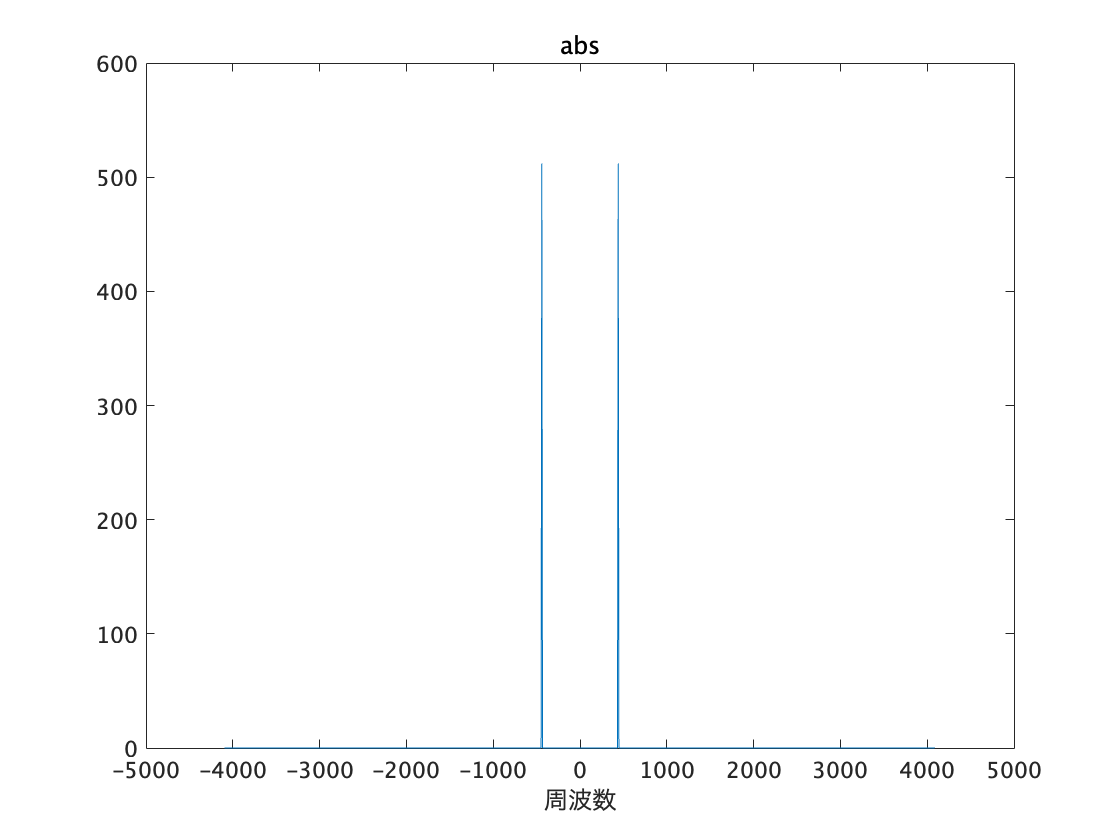
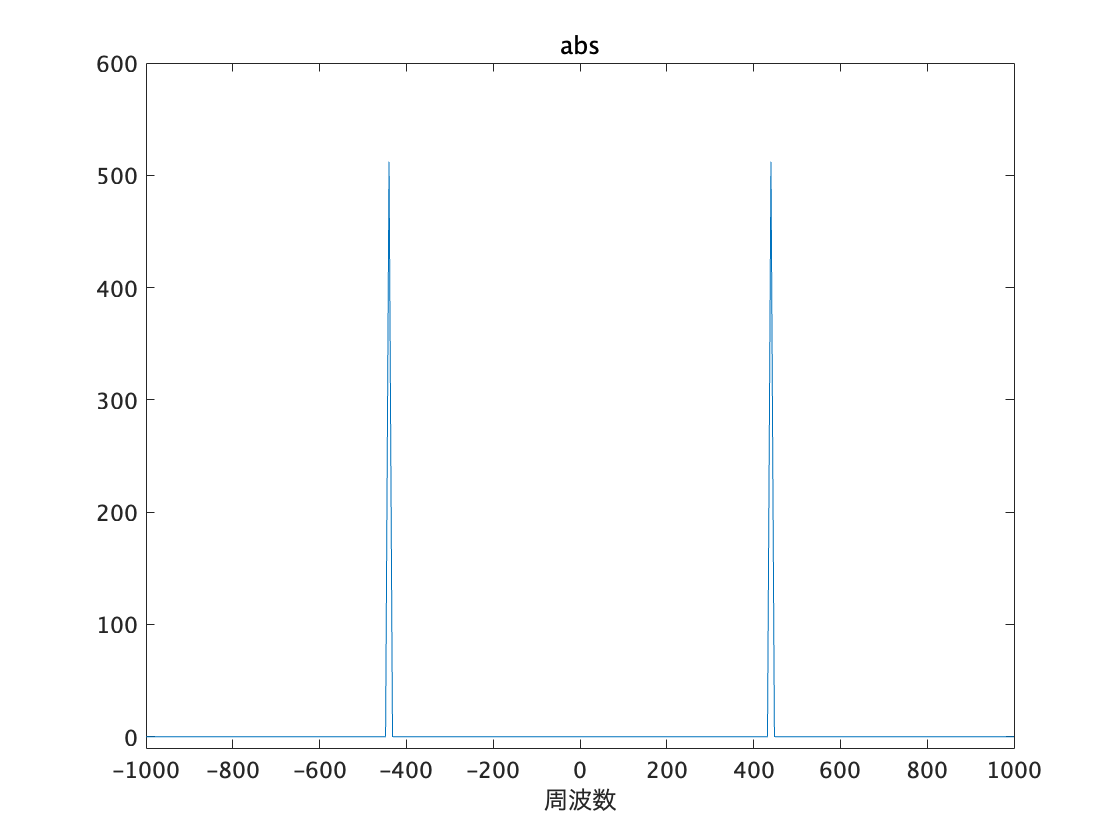
Update

diff --git a/03_SpeechSynthesis/Presentation/Presentation.tex b/03_SpeechSynthesis/Presentation/Presentation.tex
@@ -13,6 +13,7 @@
 \renewcommand\familydefault{\rmdefault}
 \renewcommand{\figurename}{図\thefigure}
 \renewcommand{\thefootnote}{\fnsymbol{footnote}}
+\renewcommand{\thempfootnote}{\fnsymbol{mpfootnote}}
 \setbeamertemplate{sections/subsections in toc}[sections numbered]
 \setbeamertemplate{enumerate item}[default]
 \setbeamertemplate{itemize item}[triangle]
@@ -24,7 +25,7 @@
         %標準の書体
     basicstyle = \ttfamily\small,
         %コメントの書体
-    commentstyle = {\ttfamily \color[cmyk]{1,0.4,1,0}},
+    commentstyle = {\scriptsize\ttfamily \color[cmyk]{1,0.4,1,0}},
         %関数名等の色の設定
     classoffset = 0,
         %キーワード(int, ifなど)の書体
@@ -46,7 +47,7 @@
     tabsize = 4,
         %キャプションの場所(tbならば上下両方に記載)
     captionpos = t,
-    xleftmargin=1.5em
+    xleftmargin=1em
 }
 \makeatletter
 \title{3. 音声合成}
@@ -134,7 +135,7 @@ phi2 = pi / 2;   % 初期位相 pi/4
 phi3 = rand;     % 初期位相 ランダム
 % --- ノコギリ波生成 ---
 for k=1:50 % とりあえず50にでも設定しておく
-    y1 = ?? + (-1)^(k-1) * 1/3 * 2/k * sin(???);
+    y1 = ?? + (-1)^(k-1) * 1/3 * 2/k * sin(??);
     y2 = ...;
     y3 = ...;
 end
@@ -157,6 +158,27 @@ end
         \centering
         \includegraphics[keepaspectratio,width=0.89\textwidth]{no1_2_ans.png}
     \end{figure}
+\end{frame}
+\section{モノラルとステレオ}
+\begin{frame}[t,containsverbatim]{\showsec モノラルとステレオ（\texttt{audioread}）}
+    \texttt{audioread}関数は，\texttt{filename.wav}のサンプルデータ\texttt{y}と，サンプリング周波数\texttt{Fs}を保存する関数である．
+    \begin{lstlisting}[language={Matlab},xleftmargin={0mm},frame={lines}]
+[y, Fs] = audioread('filename.wav');
+\end{lstlisting}
+    \begin{minipage}[t]{.49\textwidth}
+        \begin{itemize}
+            \item モノラルオーディオの場合\\
+                  \texttt{y}は\texttt{N}行\texttt{1}列のデータ列
+        \end{itemize}
+    \end{minipage}
+    \begin{minipage}[t]{.49\textwidth}
+        \begin{itemize}
+            \item ステレオオーディオの場合\\
+                  \texttt{y}は\texttt{N}行\texttt{2}列のデータ列
+        \end{itemize}
+    \end{minipage}
+    \vspace{2em}\\
+    ステレオからモノラルに変換するには，\texttt{y}の2列目を削除すれば良い．
 \end{frame}
 \section{課題2}
 \subsection{結果}
@@ -193,7 +215,8 @@ z = ??; % yの各要素に対して正ならば負，負ならば正にする
     \begin{alertblock}{}
         ステレオからモノラルへの変換をすること！
         \begin{itemize}
-            \item さもなくば，左右それぞれの信号が処理されグラフが見難くくなる．
+            \item 左右それぞれの信号が処理されグラフが見難くくなったり
+            \item そもそもデータ数が想定していたものと異なるので\texttt{plot}されなかったり
         \end{itemize}
     \end{alertblock}
 \end{frame}
@@ -210,8 +233,8 @@ z = ??; % yの各要素に対して正ならば負，負ならば正にする
         \includegraphics[keepaspectratio,height=0.5\textheight]{nokogiri.png}
     \end{figure}
 \end{frame}
-\subsection{フーリエ係数の分布}
-\begin{frame}[t]{\showsec 周波数解析（フーリエ係数の分布）}
+\subsection{振幅スペクトル}
+\begin{frame}[t]{\showsec 周波数解析（振幅スペクトル）}
     \renewcommand{\arraystretch}{1.5}
     \begin{columns}
         \begin{column}[T]{0.44\textwidth}
@@ -235,7 +258,7 @@ z = ??; % yの各要素に対して正ならば負，負ならば正にする
         \end{column}
         \begin{column}[T]{0.55\textwidth}
             \begin{figure}
-                \caption{フーリエ係数の分布}
+                \caption{振幅スペクトル}
                 \vspace{-1em}
                 \begin{tikzpicture}[remember picture]
                     \node[left] at(0,0){O};
@@ -258,13 +281,28 @@ z = ??; % yの各要素に対して正ならば負，負ならば正にする
         \end{column}
     \end{columns}
 \end{frame}
-\subsection{高速フーリエ変換（\texttt{fft}）}
-\begin{frame}[t,containsverbatim]{\showsec 周波数分析（高速フーリエ変換 \texttt{fft}）}
-    サンプリング周波数\texttt{Fs}の信号\texttt{y}に対して高速フーリエ変換\texttt{fft}を行うだけでは周波数解析ができない！
-    {\tiny \(\textrm{\texttt{-Fs/2}}\leq \textrm{周波数}\leq\textrm{\texttt{Fs/2}}\)を得られる．}
+\subsection{\texttt{fft}}
+\begin{frame}[t,containsverbatim]{\showsec 周波数解析（\texttt{fft}）}\label{frame:fft}
     \begin{lstlisting}[language={Matlab},frame={lines},numbers={none},xleftmargin={0mm}]
 fft_y = fft(y); % データ列yに対してfft を行う．
-    \end{lstlisting}
+                    \end{lstlisting}
+    \begin{block}{}
+        \texttt{fft}は，データ列\texttt{y}を高速フーリエ変換する関数であるが，入力データ列\texttt{y}に対して出力データ列\texttt{fft(y)}のデータ長は，入力データ列\texttt{y}と一致する．\\
+        ただし，indexとその内容についてはそれぞれ異なる．
+        \begin{itemize}
+            \item 入力データ列\texttt{y}のindexは時刻に対応．\footnotemark[1]
+            \item 出力データ列\texttt{fft(y)}のindexは周波数に対応．\footnotemark[2]
+        \end{itemize}
+        \footnotetext{\footnotemark[1]\footnotemark[2]indexが時刻や周波数というわけではない．}
+    \end{block}
+\end{frame}
+\subsection{\texttt{fftshift}}
+\begin{frame}[t,containsverbatim]{\showsec 周波数解析（\texttt{fftshift}）}
+    \begin{itemize}
+        \item サンプリング周波数\texttt{Fs}の信号\texttt{y}に対して高速フーリエ変換\texttt{fft}を行うだけでは周波数解析ができない！\\
+        \item \texttt{fft}では\(\textrm{\texttt{-Fs/2}}\leq \textrm{周波数成分}\leq\textrm{\texttt{Fs/2}}\)を得られる．
+        \item ただし，正のデータ・負のデータが逆転？した状態で出力される．
+    \end{itemize}
     \begin{figure}
         \centering
         \begin{minipage}[t]{0.49\textwidth}
@@ -310,28 +348,123 @@ fft_y = fft(y); % データ列yに対してfft を行う．
             \end{tikzpicture}
         \end{minipage}
     \end{figure}
-    \begin{enumerate}
-        \item 図\ref{fig:fft}から図\ref{fig:fftshift}の状態にするために\texttt{fftshift}関数を用いる．\\
+\end{frame}
+\begin{frame}[t,containsverbatim]{\showsec 周波数解析（\texttt{fftshift}）}
+    \begin{itemize}
+        \item 図\ref{fig:fft},\ref{fig:fft_f}から図\ref{fig:fftshift},\ref{fig:fft_shift_f}の状態にするために\texttt{fftshift}関数を用いる．\\
               \begin{lstlisting}[language={Matlab},frame={lines},numbers={none},xleftmargin={0mm}]
 fftshift_y = fftshift(fft_y);
             \end{lstlisting}
+    \end{itemize}
+    \begin{figure}
+        \centering
+        \begin{minipage}[t]{.49\textwidth}
+            \centering
+            \caption{\texttt{fft}}
+            \label{fig:fft_f}
+            \begin{tikzpicture}
+                \node(fig){\includegraphics[keepaspectratio,width=.9\textwidth]{fft_fft.png}};
+                \coordinate (figsouth) at (fig.south);
+                \coordinate (figscenter) at ($(figsouth)+(0.98mm,5.7mm)$);
+                \coordinate (figncenter) at ($(figscenter)+(0,3.24cm)$);
+                \coordinate (figsleft) at ($(figscenter)+(-2.05cm,0)$);
+                \coordinate (figsright) at ($(figscenter)+(2.05cm,0)$);
+                % \draw[fill=black](figncenter)circle[radius=0.01];
+                % \draw[fill=black](figscenter)circle[radius=0.01];
+                % \draw[fill=black](figsleft)circle[radius=0.01];
+                % \draw[fill=black](figsright)circle[radius=0.01];
+                \fill[fill=red,opacity=0.1](figsleft)--(figsleft |- figncenter)--(figncenter)--(figscenter)--cycle;
+                \fill[fill=blue,opacity=0.1](figsright)--(figsright |- figncenter)--(figncenter)--(figscenter)--cycle;
+            \end{tikzpicture}
+        \end{minipage}
+        \begin{minipage}[t]{.49\textwidth}
+            \centering
+            \caption{\texttt{fftshift}}
+            \label{fig:fft_shift_f}
+            \begin{tikzpicture}
+                \node(fig){\includegraphics[keepaspectratio,width=.9\textwidth]{fft_fftshift.png}};
+                \coordinate (figsouth) at (fig.south);
+                \coordinate (figscenter) at ($(figsouth)+(0.98mm,5.7mm)$);
+                \coordinate (figncenter) at ($(figscenter)+(0,3.24cm)$);
+                \coordinate (figsleft) at ($(figscenter)+(-2.05cm,0)$);
+                \coordinate (figsright) at ($(figscenter)+(2.05cm,0)$);
+                \fill[fill=blue,opacity=0.1](figsleft)--(figsleft |- figncenter)--(figncenter)--(figscenter)--cycle;
+                \fill[fill=red,opacity=0.1](figsright)--(figsright |- figncenter)--(figncenter)--(figscenter)--cycle;
+            \end{tikzpicture}
+        \end{minipage}
+    \end{figure}
+\end{frame}
+\subsection{\texttt{abs}}
+\begin{frame}[t,containsverbatim]{\showsec 周波数解析（\texttt{abs}）}
+    \begin{itemize}
         \item 絶対値を取るために\texttt{abs}をとる．\\
               \begin{lstlisting}[language={Matlab},frame={lines},numbers={none},xleftmargin={0mm}]
 fftshift_abs_y = abs(fftshift_y);
                         \end{lstlisting}
-    \end{enumerate}
-\end{frame}
-\begin{frame}[t]{\showsec 周波数分析（高速フーリエ変換 \texttt{fft}）}
+    \end{itemize}
     \begin{figure}
         \centering
         \begin{minipage}{.49\textwidth}
-            \caption{\texttt{fft}}
-            \includegraphics[keepaspectratio,width=\textwidth]{fft_fft.png}
-        \end{minipage}
-        \begin{minipage}{.49\textwidth}
+            \centering
             \caption{\texttt{fftshift}}
             \includegraphics[keepaspectratio,width=\textwidth]{fft_fftshift.png}
         \end{minipage}
+        \begin{minipage}{.49\textwidth}
+            \centering
+            \caption{\texttt{abs}}
+            \includegraphics[keepaspectratio,width=\textwidth]{fft_abs.png}
+        \end{minipage}
+    \end{figure}
+\end{frame}
+\subsection{周波数テーブルの作成}
+\begin{frame}[t,containsverbatim]{\showsec 周波数解析（周波数テーブルの作成）}
+    これまでの工程で，\texttt{0}を中心として，正負にナイキスト周波数（\texttt{Fs/2}）分離れた振幅？データを得られる．
+    \begin{enumerate}
+        \item データの長さ\texttt{ln = length(abs(fftshift(fft(y))))}を取得する．\\\textcolor{gray}{（\texttt{length(fft(y)) = length(y)，ln = length(y)}となる）→p.\pageref{frame:fft}}
+        \item[?\ ] \textcolor{red}{10個のリンゴ}を\textcolor{blue}{5つの箱}へ均等に入れます．1箱あたり\(10/5\)個のリンゴが入っていますね．
+        \item \textcolor{red}{データ長\texttt{ln}のデータ}を，\textcolor{blue}{サンプリング周波数\texttt{Fs}長の行列}に対応させるためには？
+    \end{enumerate}
+    \begin{figure}
+        \centering
+        \begin{tikzpicture}[remember picture]
+            \node[above] at ($(0,0.5cm)!0.5!(10cm,0.5cm)$){\footnotesize\texttt{abs(fftshift(fft(y)))}で得られたデータ};
+            \draw[thick](0,0)rectangle(10cm,0.5cm);
+            \node at ($(0,0.5cm)!0.5!(0.5cm,0)$) {\tiny\texttt{1}};
+            \node at ($(9.5cm,0.5cm)!0.5!(10cm,0)$) {\tiny\texttt{ln}};
+            \foreach \u in {0.5,1,...,9.5}{
+                    \draw(\u cm,0.5cm)--(\u cm,0.35cm);
+                    \draw(\u cm,0cm)--(\u cm,0.15cm);}
+            % \node at (0,-0.5cm){};
+        \end{tikzpicture}
+        \begin{tikzpicture}[remember picture]
+            \node[above] at ($(0,0.5cm)!0.5!(10cm,0.5cm)$){\footnotesize 作りたい行列 \texttt{ = freq}};
+            \draw[thick](0,0)rectangle(10cm,0.5cm);
+            \node at ($(0,0.5cm)!0.5!(1cm,0)$) {\tiny\texttt{-Fs/2}};
+            \node at ($(9cm,0.5cm)!0.5!(10cm,0)$) {\tiny\texttt{Fs/2}};
+            \foreach \u in {1,2,...,9}{
+                    \draw(\u cm,0.5cm)--(\u cm,0.35cm);
+                    \draw(\u cm,0cm)--(\u cm,0.15cm);}
+            \draw[latex-latex](0,-0.3cm)--(10cm,-0.3cm)node[midway,fill=white]{\tiny 長さ\texttt{Fs}};
+        \end{tikzpicture}
+    \end{figure}
+    \begin{lstlisting}[language=Matlab,xleftmargin={0mm},frame={lines}]
+freq = [-Fs/2 : ln/Fs : Fs/2 - ln/Fs];
+    \end{lstlisting}
+\end{frame}
+\begin{frame}[t,containsverbatim]{\showsec 周波数解析（周波数テーブルの作成）}
+    \begin{lstlisting}[language={Matlab},frame={lines},xleftmargin={0mm}]
+plot(振幅データ, 周波数テーブル);
+    \end{lstlisting}
+    \begin{figure}
+        \centering
+        \begin{tikzpicture}
+            \draw[very thick](0,0)node[below]{\texttt{-Fs/2}}--(10cm,0)node[midway,below]{\texttt{0}}node[below]{\texttt{Fs/2}};
+            \draw[very thick](0,0)--(0,3cm)node[midway,left]{\rotatebox{90}{振幅}};
+            \draw[very thick,dashed](0,3cm)--(0,4cm);
+            \node[left] at (0,0){\texttt{0}};
+            \node at (5cm,-0.7cm){周波数};
+            \fill[gray!10] ($(0,0)!0.5!(10cm,4cm)$) circle (4.9cm and 1.9cm)node[black]{データ\texttt{y}の周波数スペクトラム};
+        \end{tikzpicture}
     \end{figure}
 \end{frame}
 \section{課題3}
@@ -345,16 +478,79 @@ fftshift_abs_y = abs(fftshift_y);
     \dotfill
     \begin{itemize}
         \item 0Hz - 10,000Hz 程度までの範囲で，ピークとなる周波数，及びそのピーク値を高い順から10個程度以上抽出する．\\
-              （母音の識別に利用される主な周波数成分は4kHz以下）
+              \begin{itemize}
+                  \item とりあえず，手動で10個抽出する．
+              \end{itemize}
         \item 周波数およびピーク値（Y軸の値）は厳密でなくて良い．
         \item \texttt{a}，\texttt{i}の合成音の聞こえ方の違い，及び元の音声との違いについて考察する．
     \end{itemize}
 \end{frame}
-\subsection{サンプルコード}
-\begin{frame}[t,containsverbatim]{\showsec 課題3（サンプルコード）}
+\subsection{サンプルコード：解析}
+\begin{frame}[t,containsverbatim]{\showsec 課題3（サンプルコード：解析）}
     \begin{lstlisting}[language=Matlab]
 clear all;
+% --- "a" の音声 ---
+[y_a, Fs_a] = audioread('sound_a.wav');
+y_a = y_a(??); % ステレオからモノラルへの変換
+t_a = [0 : length(??)-??]/ ??; % 時間軸テーブル
+Y_a  = ??; % 高速フーリエ変換
+YS_a = ??; % fftshift
+YS_a = ??; % 絶対値を取る
 
+YS_a_len = length(YS_a); % YS_aのデータ長を取得
+
+% 周波数テーブル作成
+tbl_freq = [-Fs_a/2 : ?? : Fs_a/2 - ??];
+
+figure;
+plot(??, ??); % 一度グラフにplotしてみる
+axis([0 5000 0 80]); % 0Hz - 5000Hz まで表示する
 \end{lstlisting}
+\end{frame}
+\begin{frame}[t,containsverbatim]{\showsec 課題3（サンプルコード：解析）}
+    \begin{figure}
+        \centering
+        \begin{minipage}{0.48\textwidth}
+            \centering
+            \caption{振幅スペクトル}
+            \includegraphics[keepaspectratio,width=\textwidth]{freq.png}
+        \end{minipage}
+        \begin{minipage}{0.48\textwidth}
+            \centering
+            \caption{振幅が大きいところ10点選ぶ}
+            \includegraphics[keepaspectratio,width=\textwidth]{pointselect.png}
+        \end{minipage}
+    \end{figure}
+    \begin{itemize}
+        \item plotした点を行列に記す．
+    \end{itemize}
+    \begin{lstlisting}[language={Matlab},firstnumber={last}]
+a_x = [1093 2867 ... 682]
+a_y = [77 36 ...  ... 42]
+    \end{lstlisting}
+\end{frame}
+\subsection{サンプルコード：合成}
+\begin{frame}[t,containsverbatim]{\showsec 課題3（サンプルコード：合成）}
+    \begin{lstlisting}[language={Matlab},firstnumber={last}]
+ya = 0;
+for k=1:10  % t_a は時間軸テーブル
+    ya = ?? + ?? * sin(2*pi* ?? *t_a);
+end
+\end{lstlisting}
+    \begin{minipage}[t]{0.48\textwidth}
+        \centering
+        \begin{figure}
+            \centering
+            \caption{\scriptsize\texttt{y\_a}を\texttt{t\_a}に対してプロットした結果}
+            \includegraphics[keepaspectratio,height=.45\textheight]{no3.png}
+        \end{figure}
+    \end{minipage}
+    \begin{minipage}[t]{0.48\textwidth}
+        \begin{itemize}
+            \item \texttt{a\_x}は周波数，\texttt{a\_y}は振幅であることを思い出す．
+            \item それらの重ね合わせで音が再現されていたことを思い出す．\\（フーリエ級数展開）
+            \item 周波数\(f\)の正弦波は\[y(t)=\sin(2\pi ft)\]であることを思い出す．
+        \end{itemize}
+    \end{minipage}
 \end{frame}
 \end{document}

diff --git a/02_FrequencyAnalysis/no1_1.m b/02_FrequencyAnalysis/no1_1.m
@@ -4,23 +4,25 @@ clc;
 Fs = 8192;
 t = [0:(Fs-1)] / Fs;
 f = 440;
-fs=[-Fs/2:Fs/1024:(Fs/2)-1];
+fs=[-Fs/2:Fs/1024:(Fs/2)-Fs/1024];
 y = sin(2*pi*f*t);
 
 
 y = y(1,1:1024);
 fft_y = fft(y);
-
+ln = length(abs(fftshift(fft(y))));
 figure;
 plot(fs,fft_y);
 title('ftt');
 xlabel('周波数');
+% axis([-Fs/2 Fs/2 min(fft_y) max(fft_y)]);
 
 fft_ys = fftshift(fft_y);
 figure;
 plot(fs,fft_ys);
 title('fttshift');
 xlabel('周波数');
+% axis([-Fs/2 Fs/2 min(fft_y) max(fft_y)]);
 
 
 fft_ys = abs(fft_ys);
@@ -28,4 +30,4 @@ figure;
 plot(fs,fft_ys);
 title('abs');
 xlabel('周波数');
-% axis([-1000 1000 0 600]);
+axis([-1000 1000 -10 600]);

diff --git a/03_SpeechSynthesis/no3_sub.m b/03_SpeechSynthesis/no3_sub.m
@@ -13,7 +13,7 @@ clear;
  
  figure;
  plot(fs1,A1);
- axis([0 5000 0 80]);
+ % axis([0 5000 0 80]);
  title('"a"');
 
  y1mx = [1092 545 819 682 956 2868 3555 136 1219 3680];
@@ -25,4 +25,4 @@ clear;
  end
  figure;
  plot(t1,ya);
- sound(ya,Fs1);
+ % sound(ya,Fs1);
